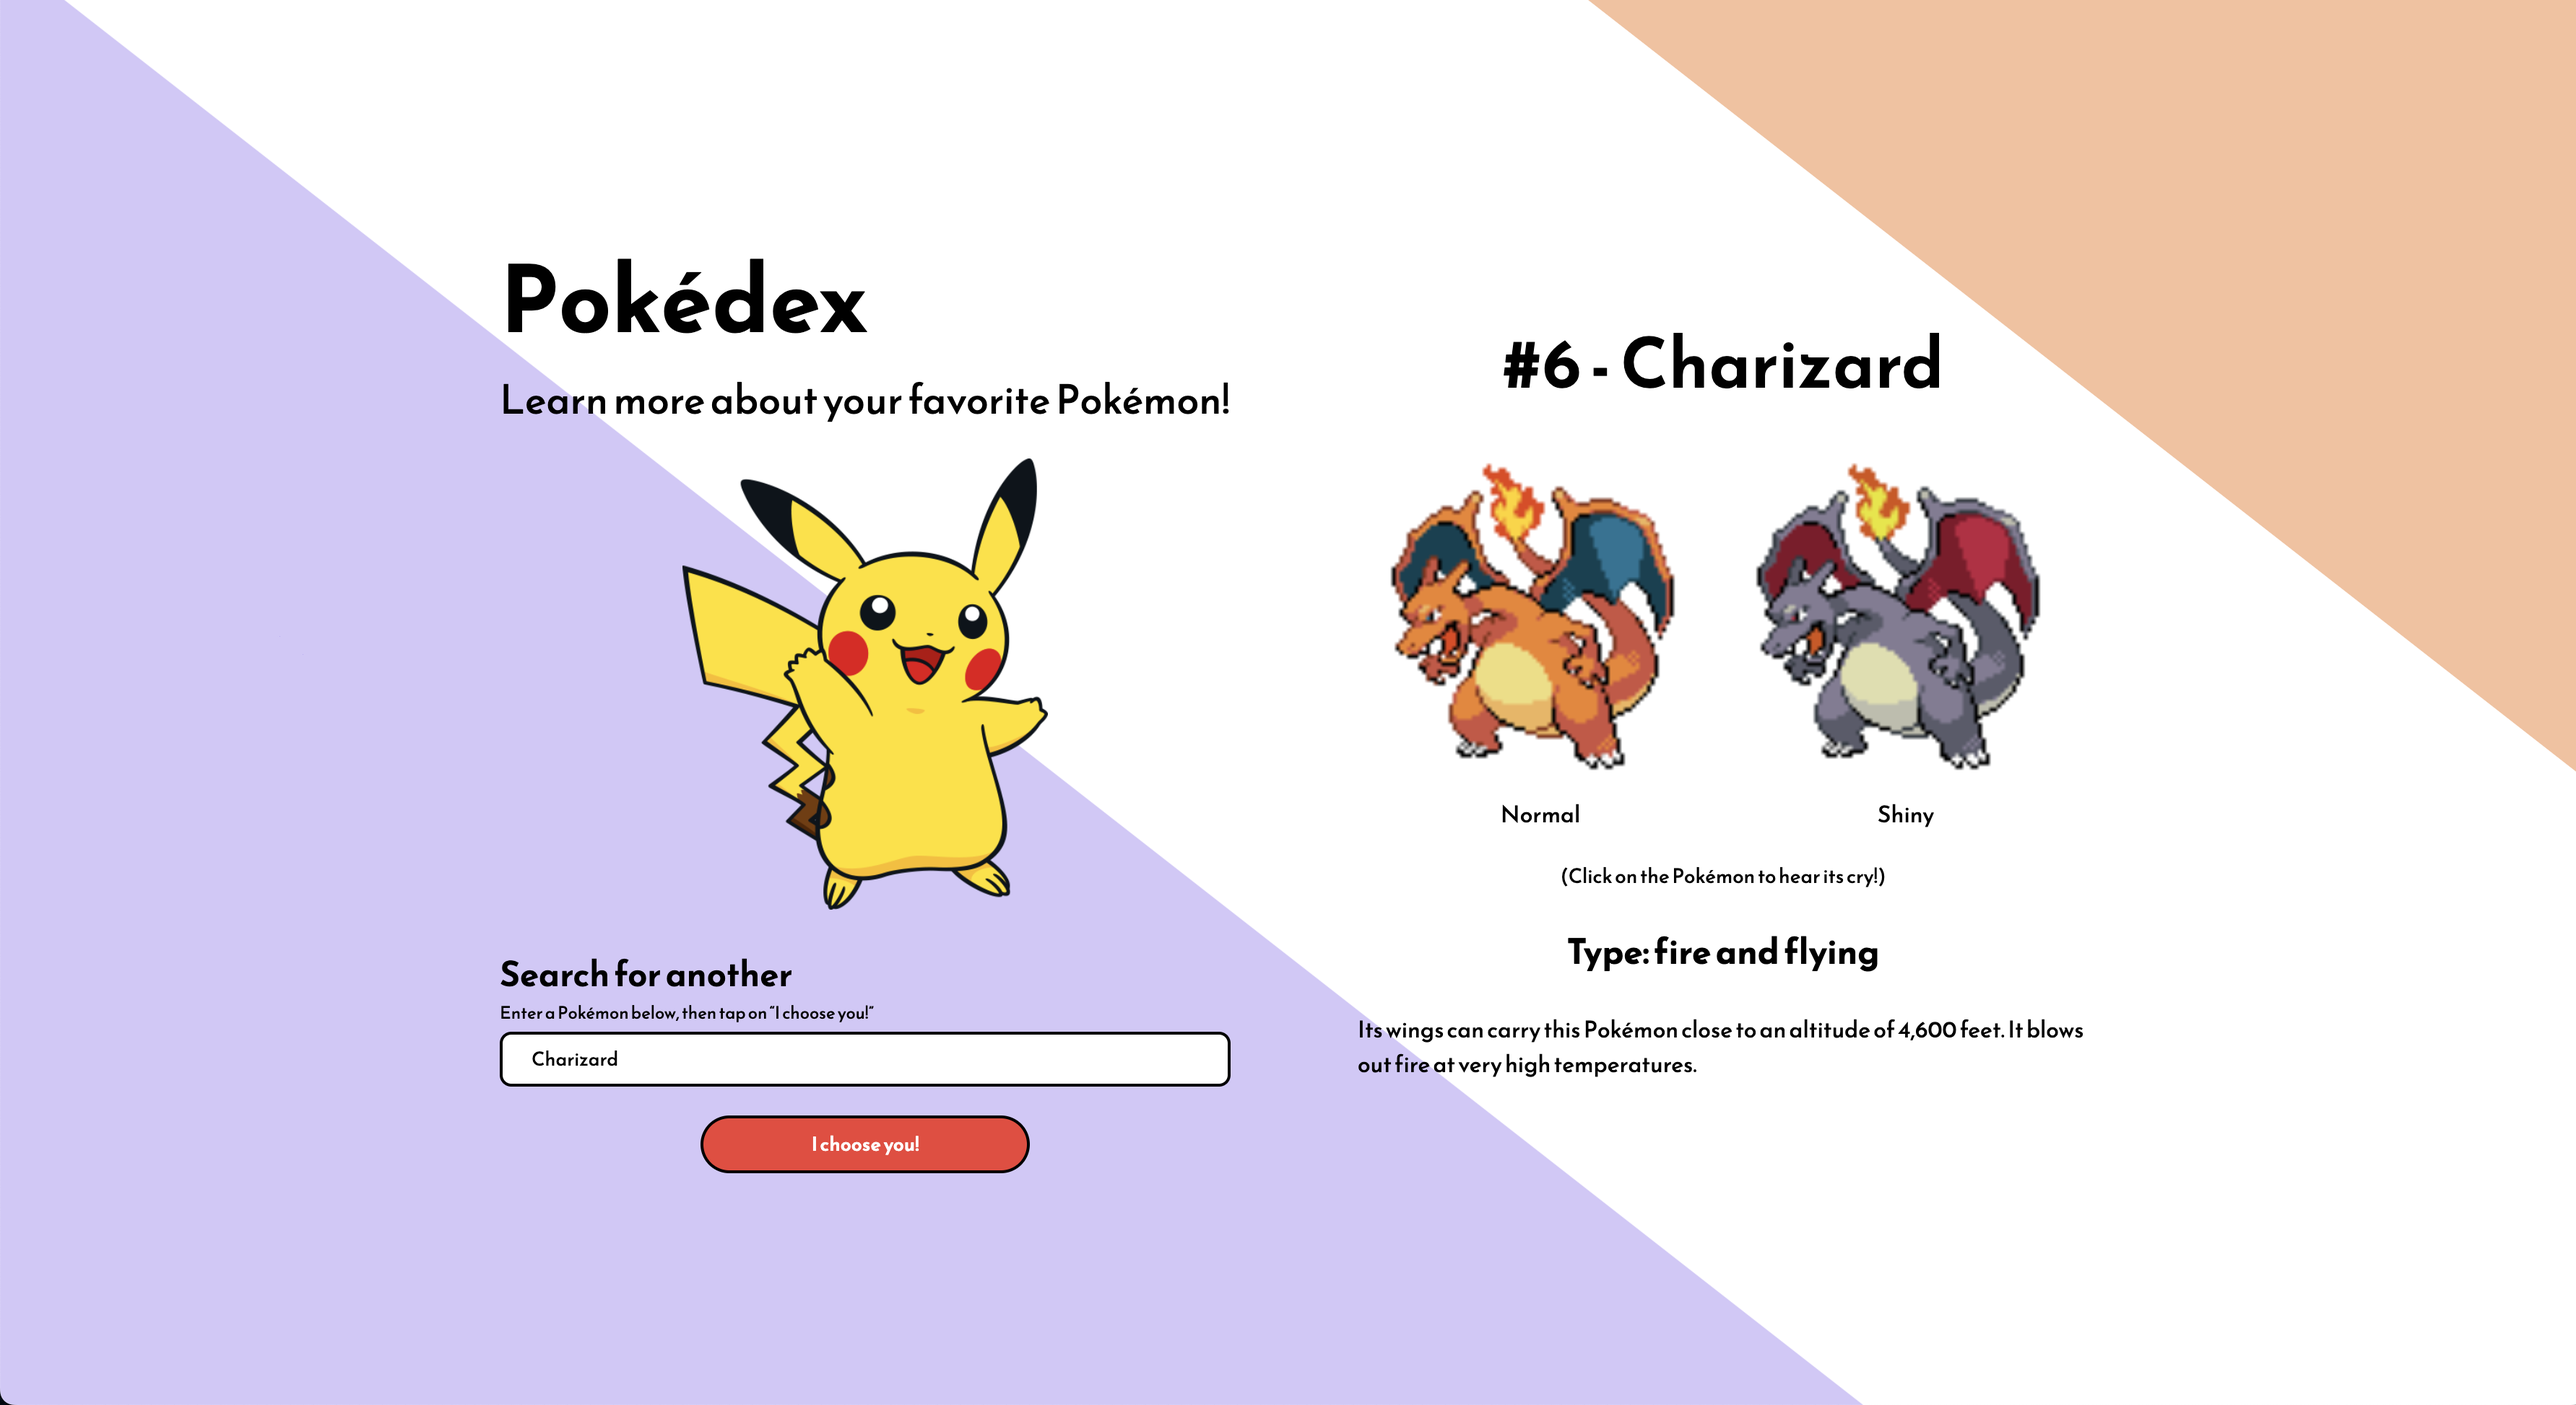
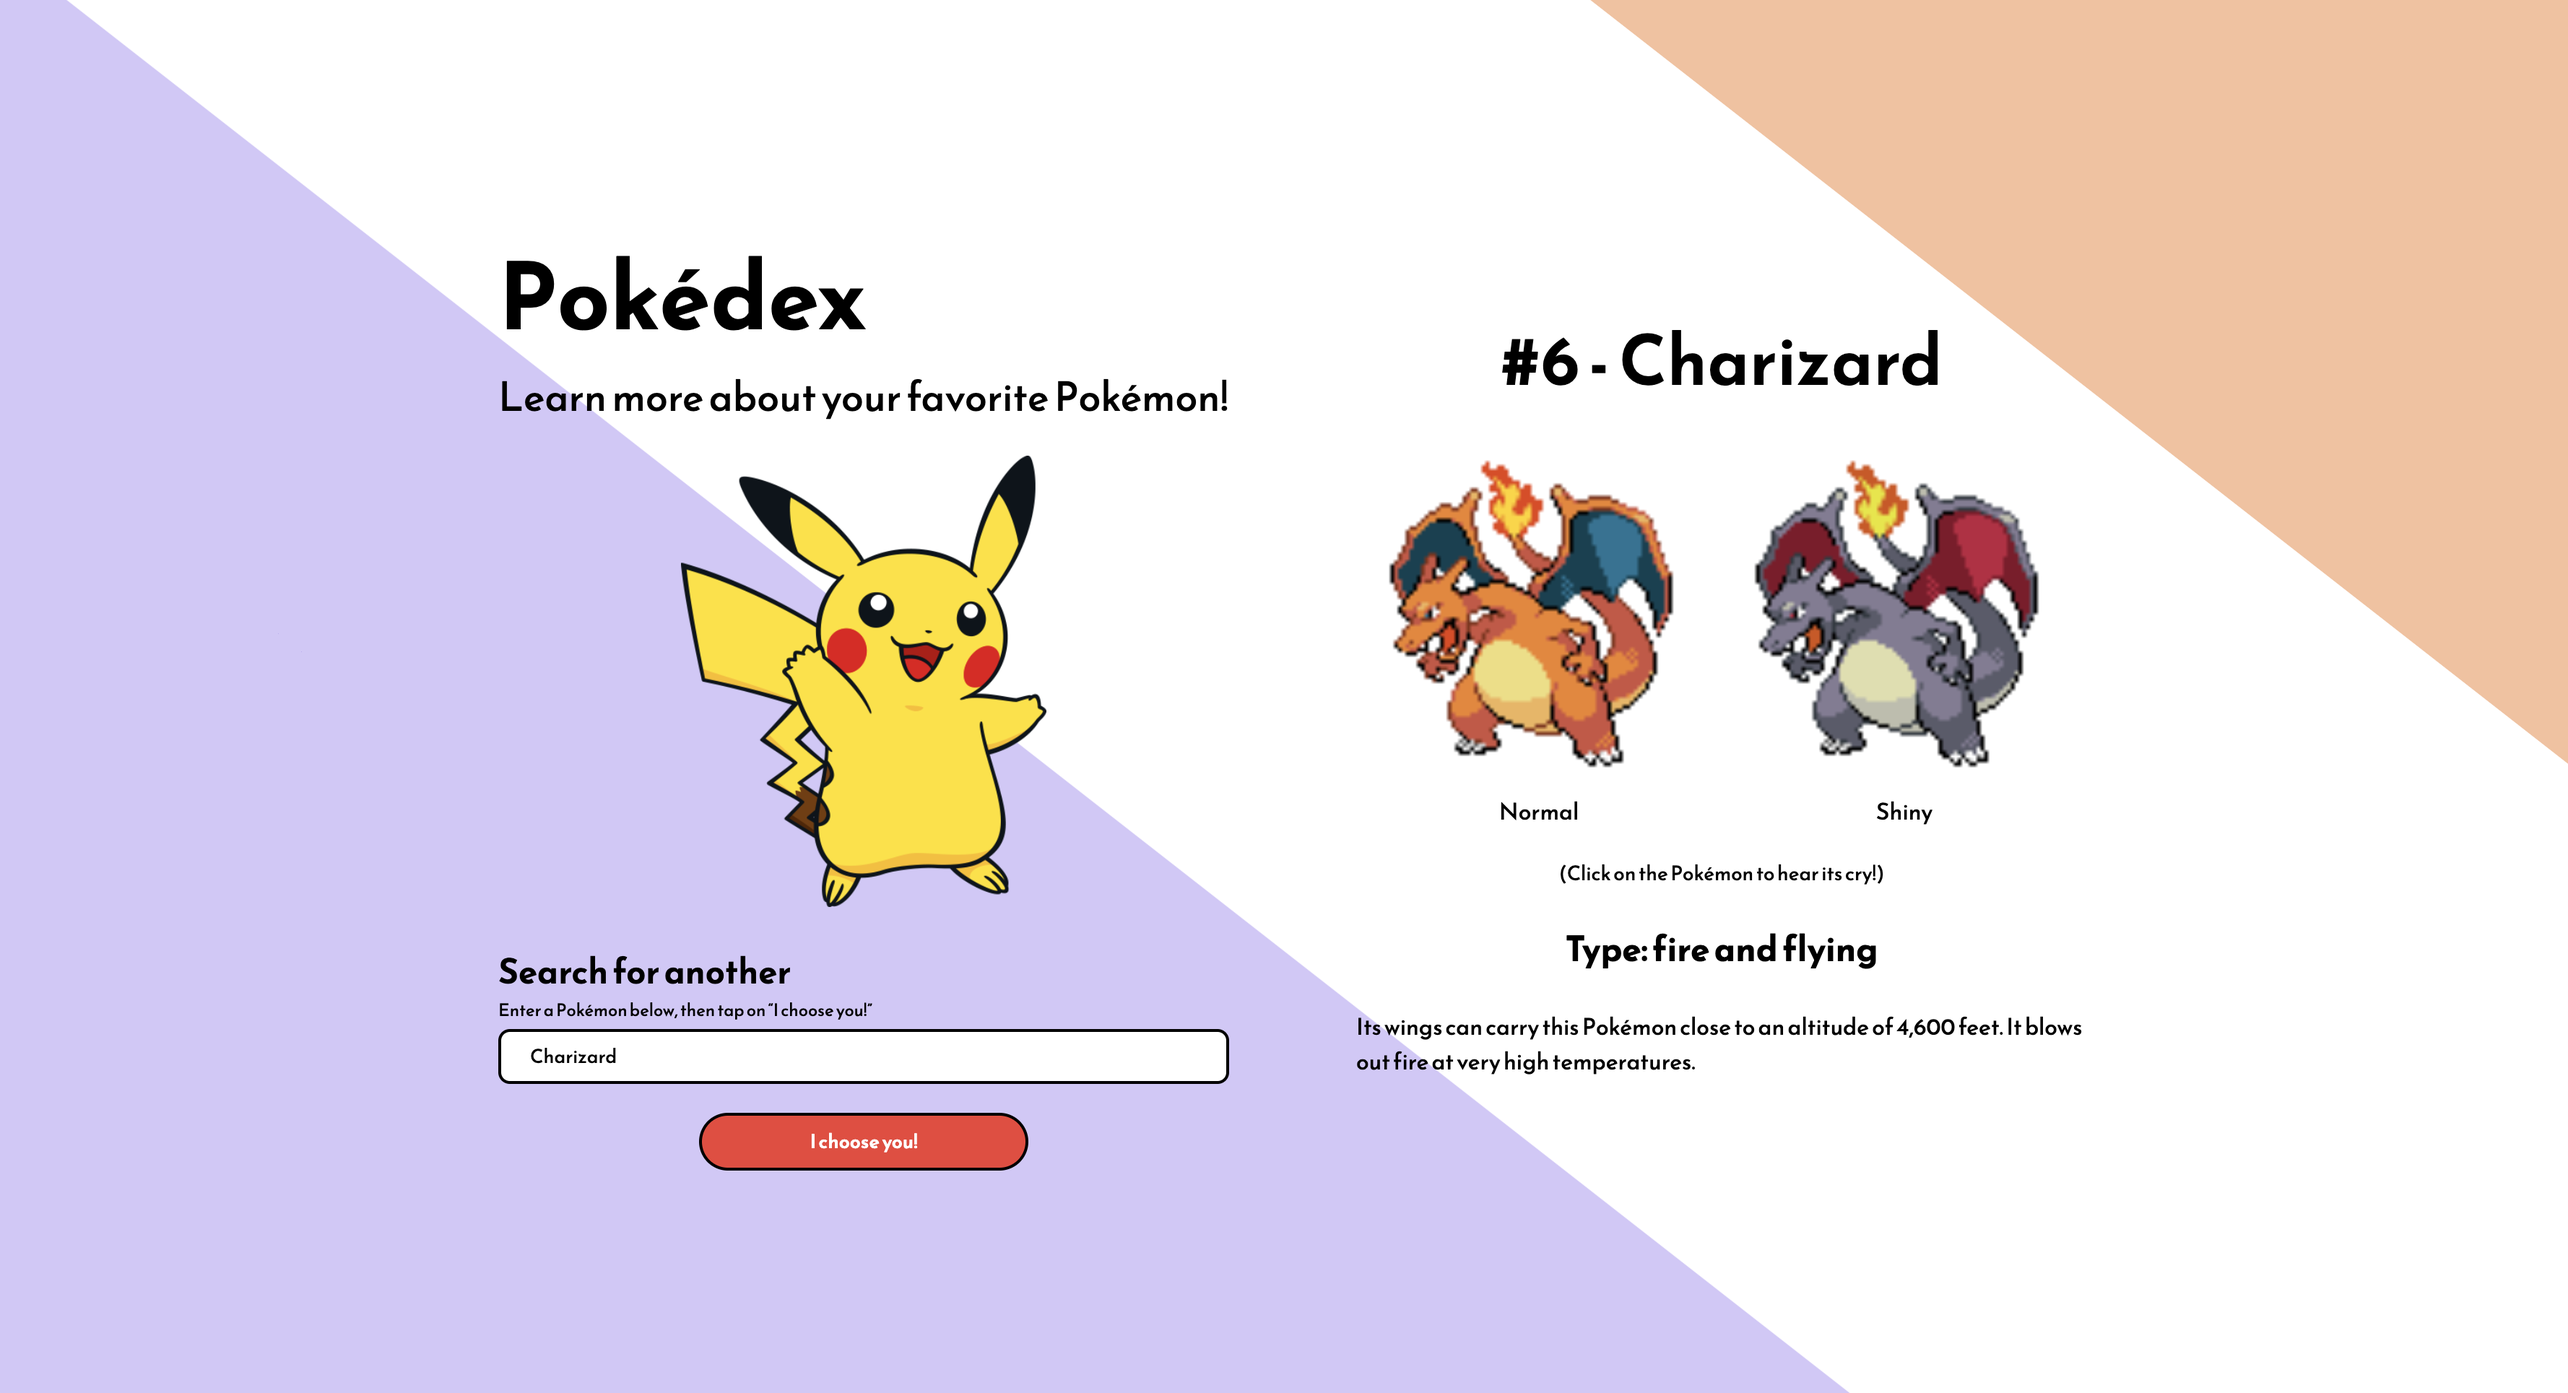
Replace hero image, make hero section responsive

diff --git a/web-developer-projects/pokedex/index.html b/web-developer-projects/pokedex/index.html
@@ -236,9 +236,9 @@
           <h3>Challenge #1 - Getting the animation to play correctly</h3>
           
           <!-- Screenshot of the checkboxes -->
-          <div class="image-container challenge-1-image-1">
+          <!-- <div class="image-container challenge-1-image-1">
             <img src="/assets/images/pokedex/pokemon-type-animation.gif" alt="GIF showing the colors animating in">
-          </div>
+          </div> -->
 
           <!-- My solution -->
           <!-- <p class="solution-list">Lorem ipsum</p> -->
@@ -265,7 +265,7 @@
 
             <!-- Image of my code solution -->
             <div class="image-container challenge-1-image-2">
-              <img src="/assets/images/password-generator/challenge-1-image.png" alt="Screenshot of JavaScript code showing my solution to checking which checkboxes were checked">
+              <img src="/assets/images/pokedex/pokemon-type-animation.gif" alt="GIF showing the colors animating in">
             </div>
           </div>
 

diff --git a/assets/css/web-developer-projects/pokedex.css b/assets/css/web-developer-projects/pokedex.css
@@ -102,6 +102,10 @@ hr {
   margin-top: var(--block-lg);
 }
 
+.hero-section img {
+  border: 1px solid lightgray;
+}
+
 /* ----- Image container ----- */
 .image-container {
   margin-bottom: var(--block-sm);
@@ -394,6 +398,12 @@ hr {
     margin-top: var(--block-md);
   }
 
+  .hero-section .image-container {
+    /* border: 3px solid red; */
+    max-width: unset;
+    width: 90%;
+  }
+
   /* ---------- Project Overview ---------- */
   .project-overview-container {
     display: grid;
@@ -431,12 +441,12 @@ hr {
   }
 }
 
-@media only screen and (min-width: 848px) {
-  /* hero section */
+/* @media only screen and (min-width: 848px) {
+  hero section
   .hero-section .image-container {
     max-width: 588px;
   }
-}
+} */
 
 @media only screen and (min-width: 992px) {
   /* table of contents */
